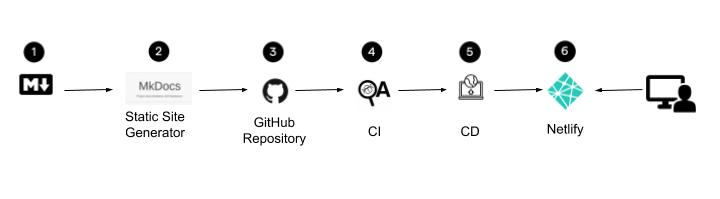
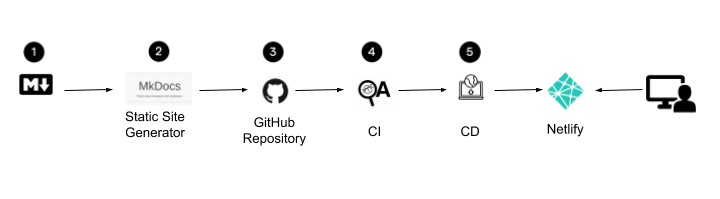
added continuous deployment

Changed region(s): [[0.7639, 0.3618, 0.825, 0.5427], [0.7639, 0.1809, 0.825, 0.3317]]

diff --git a/docs/index.md b/docs/index.md
@@ -6,12 +6,6 @@ In this tutorial we describe an implementation of Docs as Code. First, we define
 
 Docs as Code is treating documentation as a software product. We use the same tools that are used in software development—IDE, Git, and CI/CD—to write and publish a project's documentation. Also, we use the same tools that software developers use. As a result, we deliver the documentation in the same way we deliver software.
 
-## How is the Process of Docs as Code?
-
-To deliver documentation as code, we follow a similar process as software development. The following image shows the workflow of the implementation of Docs as Code:
-
-![docs-as-code-workflow](images/An-Implementation-of-Docs-as-Code.png)
-
 ## Tools
 
 There are several tools that we can use to implement docs as code. For this implementation, we use the following tools:
@@ -20,17 +14,33 @@ There are several tools that we can use to implement docs as code. For this impl
 * **VS Code:** Use an IDE to edit our documents. 
 * **Mkdocs:** Use a static site generator. 
 * **GitHub:** Use Git for file management and collaboration.
-* **HTMLProofer and Vale:** Test our documents. We check for missing links and use a prose linter.
+* **HTMLProofer and Vale:** Test our documentation. We check for missing links and use a prose linter.
 * **GitHub Actions:** Build and publish the documentation site continuously.
 
 We automatically deploy our documentation site after every commit we make.
+
+## How is the Process of Docs as Code?
+
+To deliver documentation as code, we follow a similar process as software development. The following image shows the workflow of the implementation of Docs as Code:
+
+![docs-as-code-workflow](images/An-Implementation-of-Docs-as-Code.png)
+
+![one](images/one-black.png)**Create the documents in Markdown**. We create our documentation using a Markup language.
+
+![two](images/two-black.png)**Create a static site with the Markdown files**. We use Mkdocs to create our documentation site.
+
+![three](images/three-black.png)**Push the Markdown files to GitHub**. We use GitHub to control the versions of our documentation site.
+
+![four](images/four-black.png)**Test the documents**. We create a continuous integration workflow to build and test the HTML files of our documentation site.
+
+![five](images/five-black.png)**Deploy the static site**. We create a continuous deployment workflow to deploy our documentation site to Netlify. 
 
 ## How we Implement Docs as Code
 
 We need to set up and configure the tools mentioned in section Tools so that we can start creating documentation. In this tutorial we go throught the following steps to create our implementation:
 
-* **Step 1:** Create the Static Site.
-* **Step 2:** Create a GitHub repository.
-* **Step 3:** Add the Vale YAML Extension files.
-* **Step 4:** Create the continuous integration workflow.
-* **Step 5:** Create the continuous deployment workflow.
+* [**Step 1:** Create the Static Site.](step1.md)
+* [**Step 2:** Create a GitHub repository.](step2.md)
+* [**Step 3:** Add the Vale YAML Extension files.](step3.md)
+* [**Step 4:** Create the continuous integration workflow.](step4.md)
+* [**Step 5:** Create the continuous deployment workflow.](step5.md)

diff --git a/docs/step1.md b/docs/step1.md
@@ -1,0 +1,64 @@
+We need to install a Static Site Generator (SSG) to create our documentation site. For this implementation of Docs as Code, we'll be using [Mkdocs](https://www.mkdocs.org/) because it is very simple and enables us to customize the documentation site using a theme.
+
+## Prerequisites
+
+Before we create our Mkdocs static site, we need to install Python 3 so that we can use the `pip` command to install Mkdocs, and the Mkdocs Material theme. After installing (or verifying that you have) Python 3 on your local system, execute the following commands:
+
+* **Install Mkdocs:**
+
+     ```
+       pip install mkdocs
+     ```
+
+* **Install the Mkdocs Material theme:**
+
+     ```
+       pip install mkdocs-material
+     ```
+
+## Create the documentation site
+
+We can now create our documentation site:
+
+1. In the terminal, change the current working directory to the location where we want to store the repository’s contents using the **change directory** (cd) command.
+1. Create the Static Site Mkdocs project: 
+
+    ```
+      mkdocs new documentation-site-name
+    ```
+
+Mkdocs creates the directory documentation-site-name with the following contents:
+
+```
+.
+├── docs
+│   └── index.md
+└── mkdocs.yml 
+```
+
+You can preview the documentation site on your local system with the command `mkdocs serve`.
+
+## Add the Material theme to the documentation site
+
+We add the material theme to our documentation site:
+
+1. Open the mkdocs.yml configuration file.
+1. In this file, enter the following settings:
+
+```
+      site_name: 'Name of your documentation site'
+      theme:
+      theme:
+        name: material
+        logo: images/typewriter.png
+        palette:
+          primary: white
+          accent: white
+        font:
+          text: 'Roboto'
+          code: 'Roboto Mono'
+      nav:
+          - Home: index.md
+
+```
+The settings above are the configuration of this documentation site. However, we can do more customizations to the [Material theme](https://squidfunk.github.io/mkdocs-material/customization/) so that we can add our own css file and override the HTML code that Mkdocs creates. 

diff --git a/docs/step4.md b/docs/step4.md
@@ -1,0 +1,45 @@
+We implement a continuous integration workflow that includes the following steps:
+
+* Build the documentation site.
+* Validate the HTML output.
+
+We use [GitHub Actions](https://github.com/features/actions) to implement this workflow. Everytime we create a pull request in the documentation site GitHub repository, GitHub Actions triggers the workflow we define below.
+
+It is possible to add Vale to the continuous integration workflow. However, for this implementations we run Vale locally before we commit and push our updates to the GitHub repository of our documentation site.
+
+To create the continuous integration workflow:
+
+1. In the terminal, change the current working directory to the `documentation-site-name` directory.
+1. Create the directory `documentation-site-name/.github/workflows`.
+1. In the directory created in the previous step, create the file `continuous-integration.yml`.
+1. Copy and paste the following text into the file continuous-integration.yml:
+
+```
+name: Continuous Integration
+
+on: [pull_request]
+
+jobs:
+  test:
+    runs-on: ubuntu-latest
+    steps:
+      - uses: actions/checkout@v2
+
+      - name: Setup Python
+        uses: actions/setup-python@v1
+        with:
+          python-version: 3.7
+      - name: Install dependencies and run tests
+        run: |
+          pip install -r requirements.txt
+      - run: mkdocs build
+
+      - name: HTMLProofer
+        uses: chabad360/htmlproofer@v1.1
+        with:
+          directory: "./site"
+          arguments: --disable-external
+
+```
+
+We save the file `continuous-integration.yml` and push our changes to the documentation site GitHub repository. In this workflow, we use Ubuntu to run the continuous integration workflow. Also, we define the tasks to build the documentation site (using the command `mkdocs build`) and validate the HTML output using [HTMLProofer](https://github.com/gjtorikian/html-proofer). 

diff --git a/docs/step3.md b/docs/step3.md
@@ -1,0 +1,31 @@
+We use use the prose linter [Vale](https://errata-ai.gitbook.io/vale/) the enforce the use of a style guide. Before configuring the style that we want to use, we need to install Vale with the command `brew install vale` (we need to install the package manager [brew](https://brew.sh/)). 
+
+Vale has an extension system to define the rules that you want to validate. We define this rules by creating YAML files and a configuration file `.vale.ini`. For this implementation, we use the [Google developer documentation style guide](https://developers.google.com/style) YAML files.
+
+1. Go to the [Vale-compatible](https://github.com/errata-ai/Google/releases) implementation of the Google developer documentation guide repository.
+2. Download the latest release of the `Google.zip` file.
+3. In the terminal, change the current working directory to the `documentation-site-name` directory.
+4. Create the folder styles:
+   
+    ```
+      mkdir styles
+    ```
+
+5. Unzip the Google.zip file in the styles directory:
+   
+    ```
+      unzip Google.zip -d styles/
+    ```
+
+6. Create the file `.vale.ini` in the `documentation-site-name` directory.
+7. Copy and paste the following text into the `.vale.ini` file:
+
+```
+StylesPath = styles
+MinAlertLevel = warning
+
+[*.md]
+BasedOnStyles = Google
+```
+
+To run vale on an `.md` file run the command `vale file.md`.

diff --git a/docs/step2.md b/docs/step2.md
@@ -1,0 +1,19 @@
+We create a GitHub repository to store our documentation site:
+
+1. Go to your GitHub account.
+1. Click the **New** button.
+1. Enter the new repository’s name in the Repository name text field.
+1. Leave the Initialize this repository with a README option unselected.
+1. In a terminal change the current working directory to the documentation-site-name directory.
+1. Run the following commands:
+
+```
+echo "# documentation-site-name" >> README.md
+git init
+git add README.md
+git commit -m "first commit"
+git remote add origin https://github.com/your-user-name/documentation-site-name.git
+git push -u origin master
+```
+
+We can now use the git commands `add`, `commit`, and `push` to keep track of the changes to the files of our documentation site and store them.

diff --git a/docs/step5.md b/docs/step5.md
@@ -1,0 +1,3 @@
+
+
+From the site dashboard, go to Settings > General > Site details > Site information, and copy the value for API ID.
